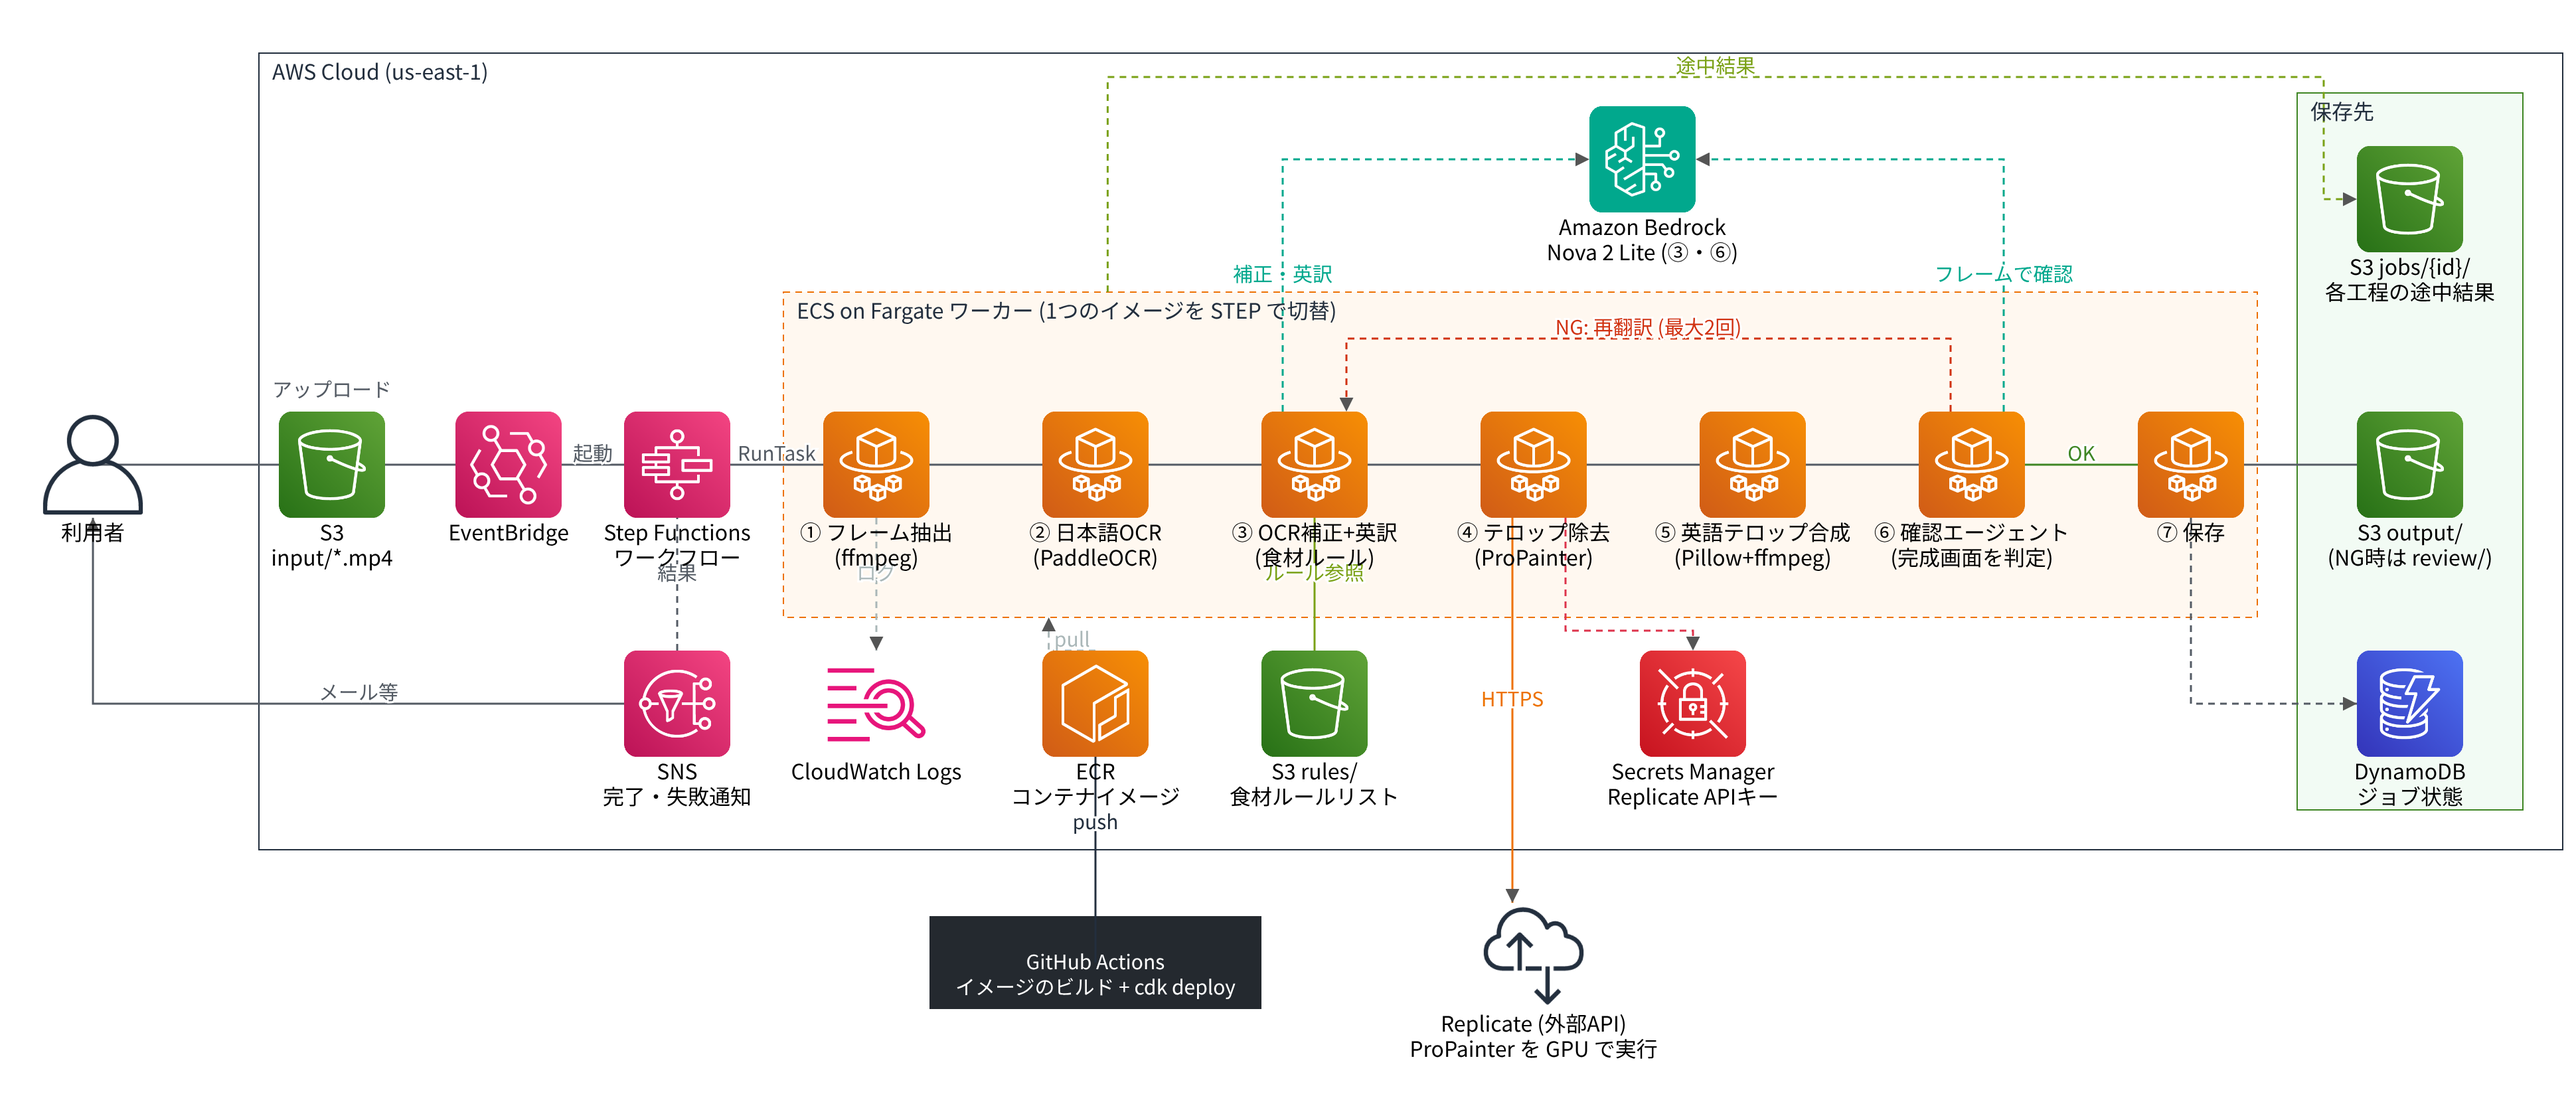
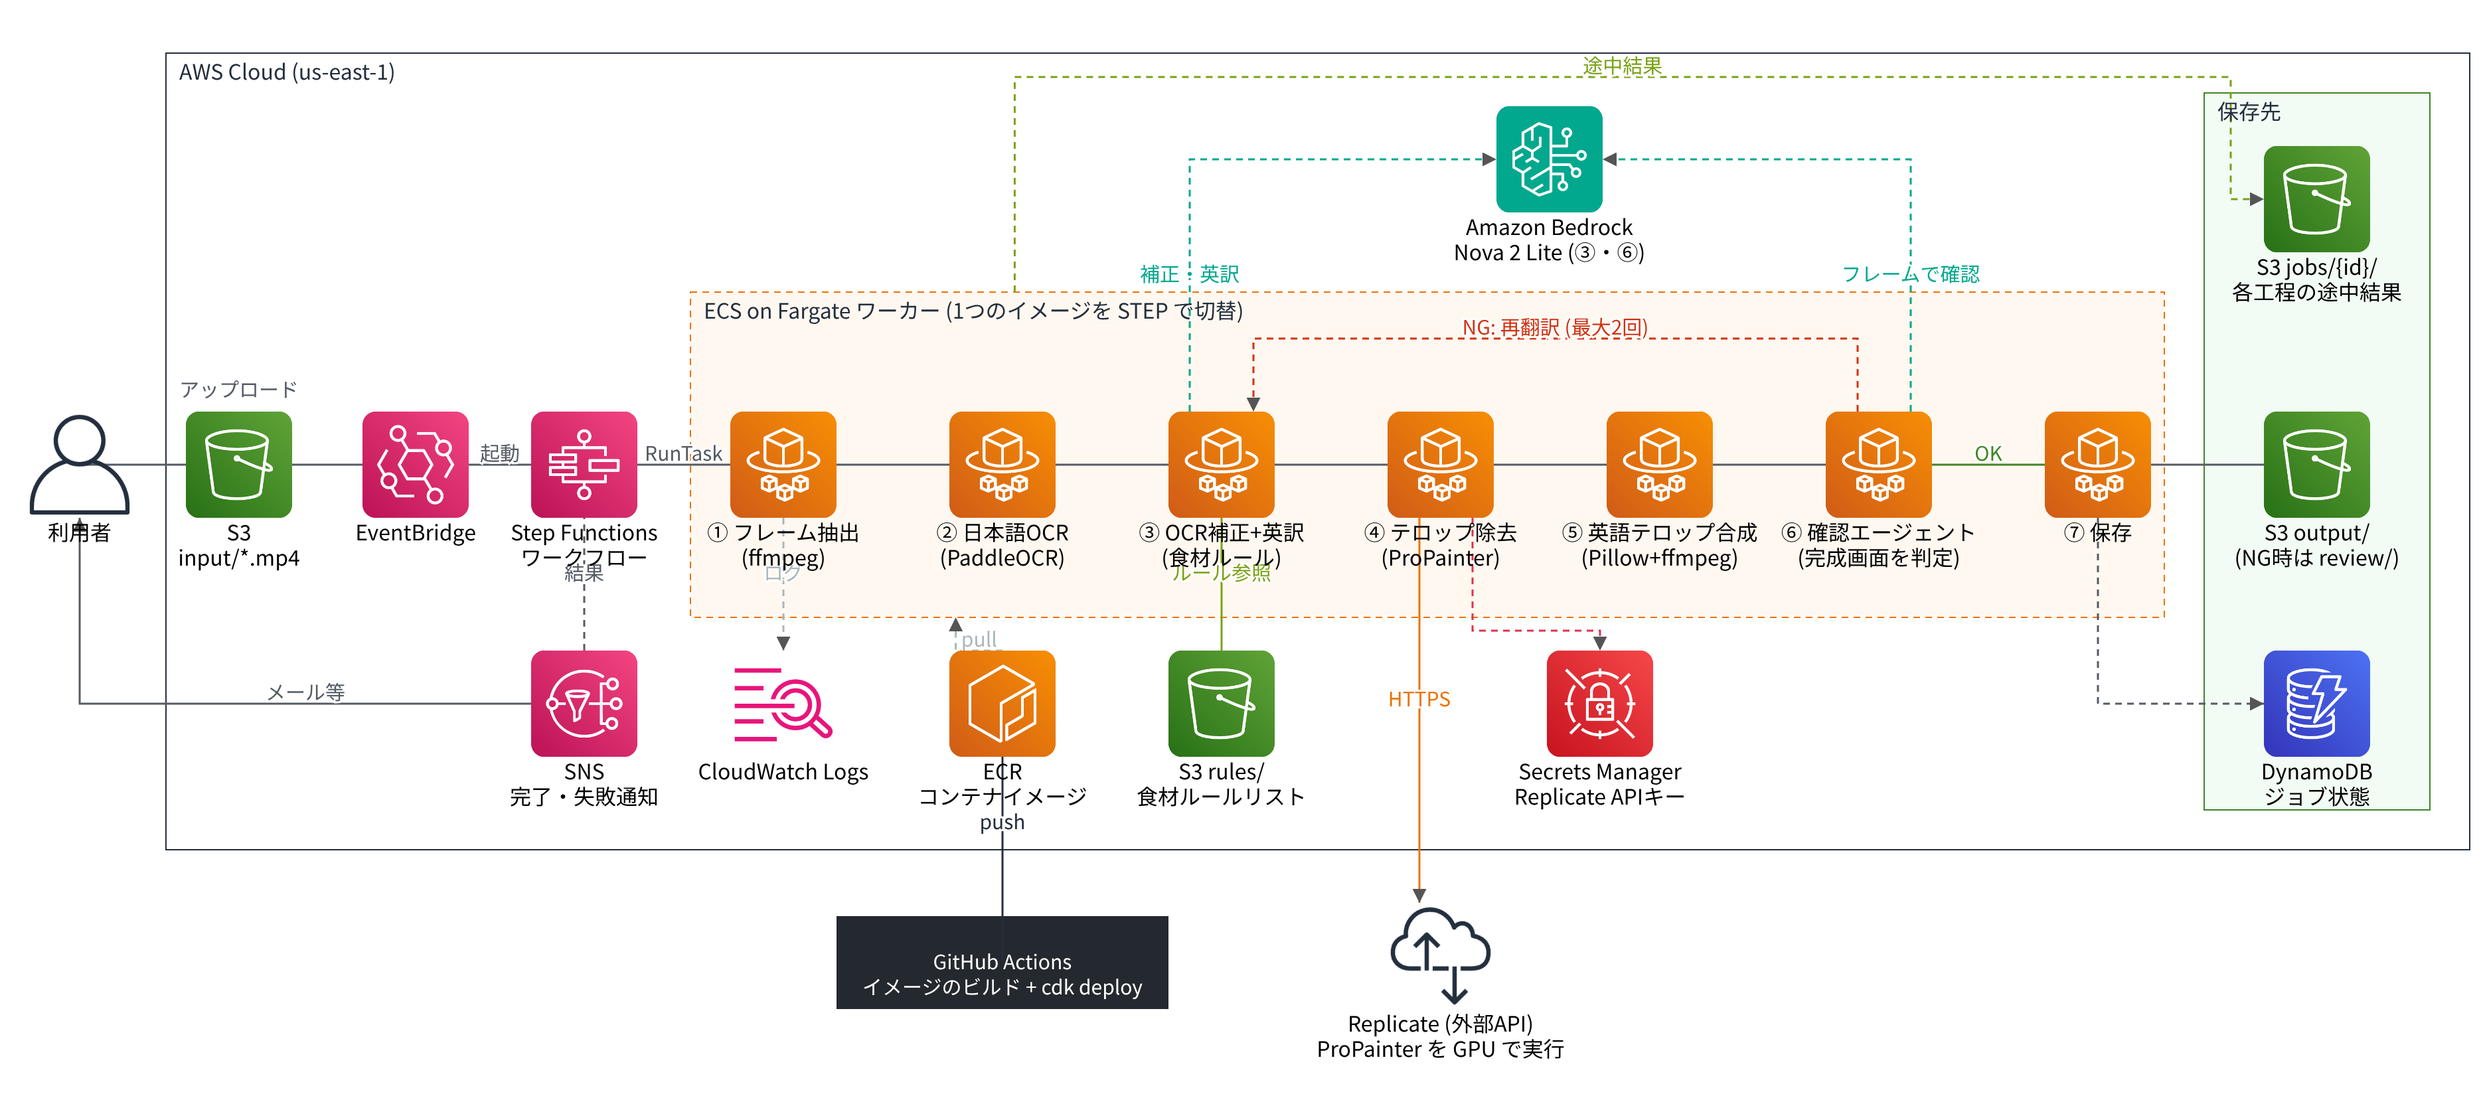
構成図: 利用者アイコンを右に寄せる
Claude-Session: https://claude.ai/code/session_01PP6npJEEqDkh7a12NZBn48

diff --git a/docs/architecture/make_drawio.py b/docs/architecture/make_drawio.py
@@ -113,7 +113,7 @@ fargate = group("ECS on Fargate ワーカー (1つのイメージを STEP で切
 group("保存先", 1670, -10, 170, 540, BOX.format(f="#F2FBF4", s="#3F8624", d=0))
 
 # ---- 入口 ----
-user = plain_icon("利用者", "user", -30, ROW)
+user = plain_icon("利用者", "user", 30, ROW)
 s3_in = icon("S3\ninput/*.mp4", "simple_storage_service", STORAGE, 150, ROW)
 eb = icon("EventBridge", "eventbridge", INTEG, 283, ROW)
 sfn = icon("Step Functions\nワークフロー", "step_functions", INTEG, 410, ROW)
@@ -186,7 +186,7 @@ edge(fargate, s3_jobs, "途中結果", dashed=True, color="#7AA116", exit=(0.22,
      points=[(530 + 1110 * 0.22, -22), (1690, -22), (1690, 30 + S // 2)])
 # 通知・運用
 edge(sfn, sns, "結果", dashed=True)
-edge(sns, user, "メール等", exit=(0, 0.5), entry=(0.5, 1), points=[(-30 + S // 2, 410 + S // 2)])
+edge(sns, user, "メール等", exit=(0, 0.5), entry=(0.5, 1), points=[(30 + S // 2, 410 + S // 2)])
 edge(gha, ecr, "push", color="#232F3E")
 edge(ecr, fargate, "pull", color="#AAB7B8", dashed=True, exit=(0.5, 0), entry=(0.18, 1))
 edge(s1, logs, "ログ", color="#AAB7B8", dashed=True, exit=(0.5, 1), entry=(0.5, 0))
